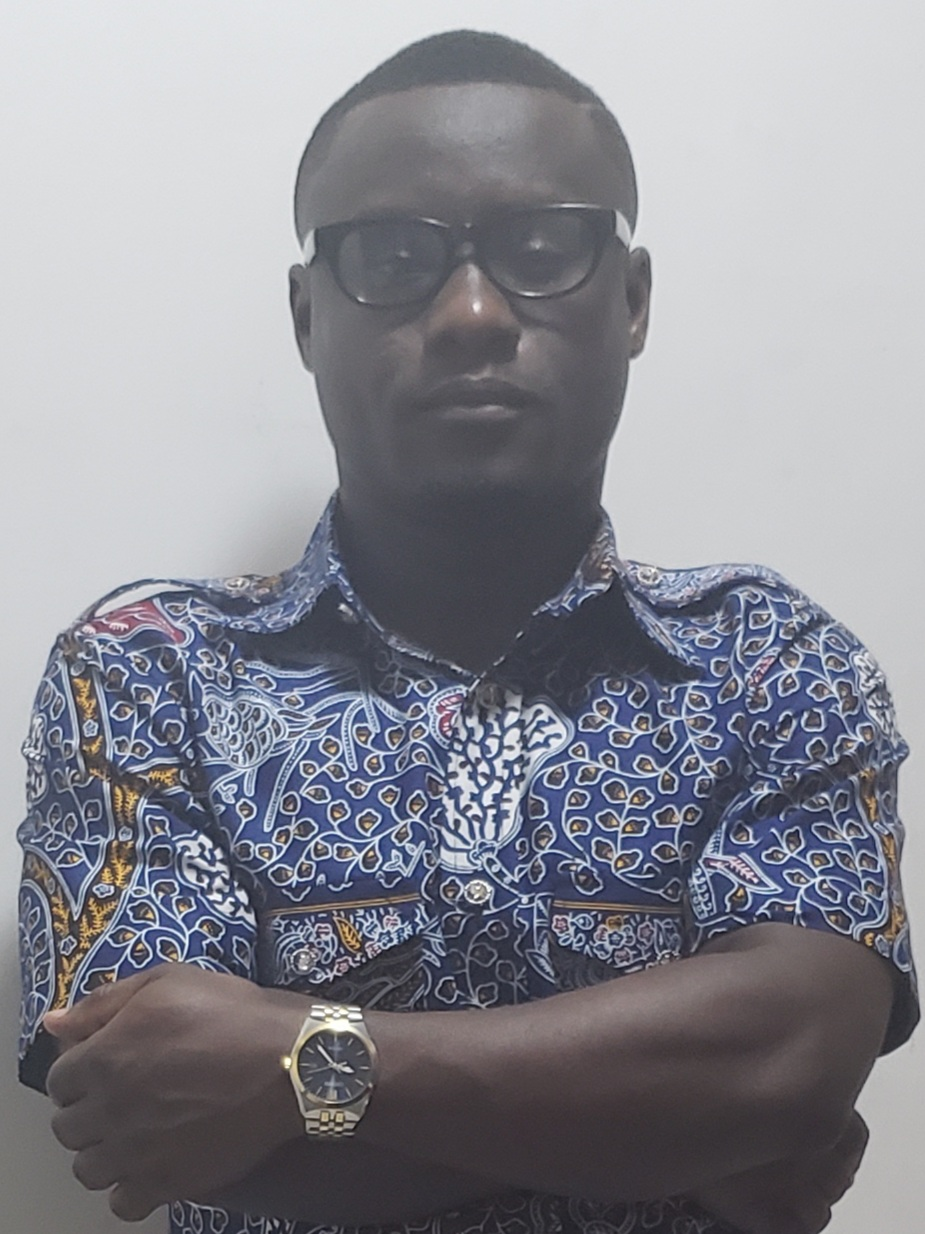
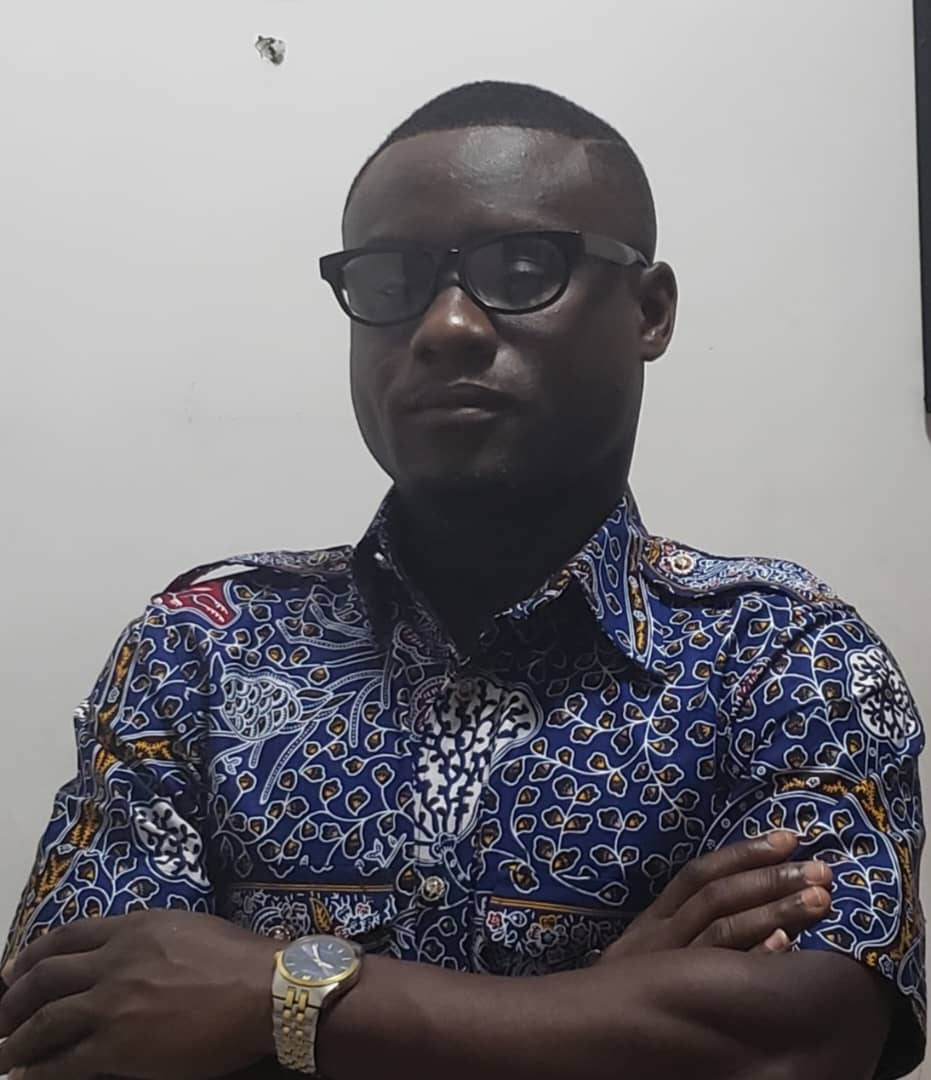
Replace profile photo with A.jpeg

diff --git a/index.html b/index.html
@@ -26,7 +26,7 @@
 </head>
 
 <body class="dark-theme">
-  <img src="assets/images/profile.png" alt="Nana Safo Duker" class="profile-image" />
+  <img src="assets/images/profile.jpg" alt="Nana Safo Duker" class="profile-image" />
   <button id="theme-toggle" class="theme-toggle" aria-label="Toggle theme">
     <i class="fas fa-moon"></i>
   </button>
